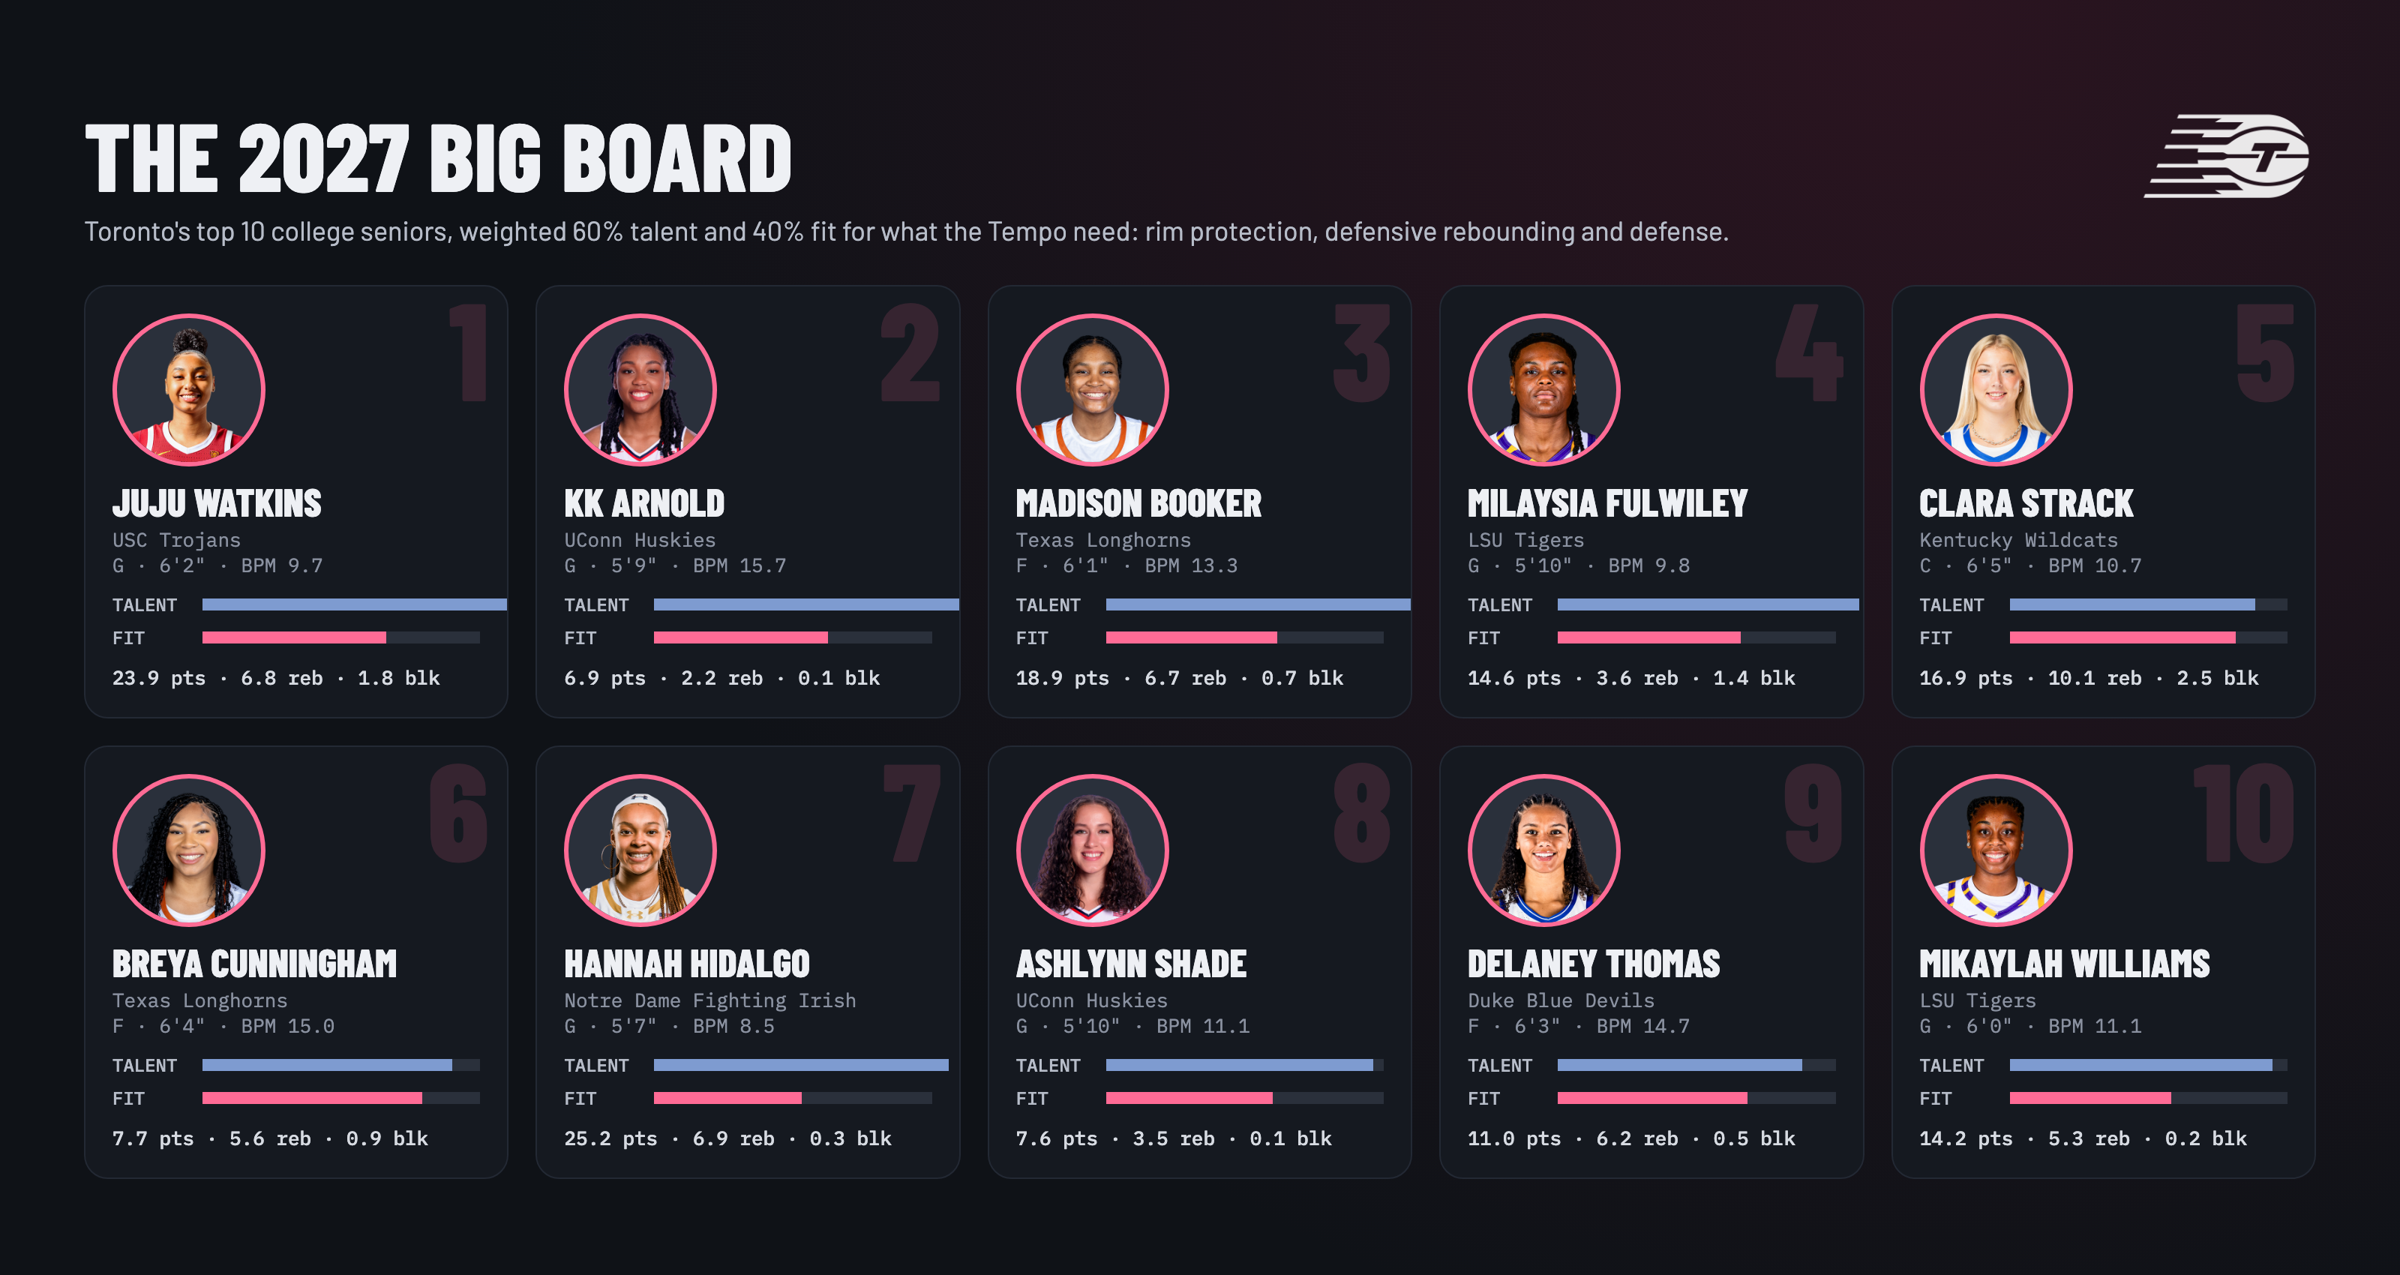
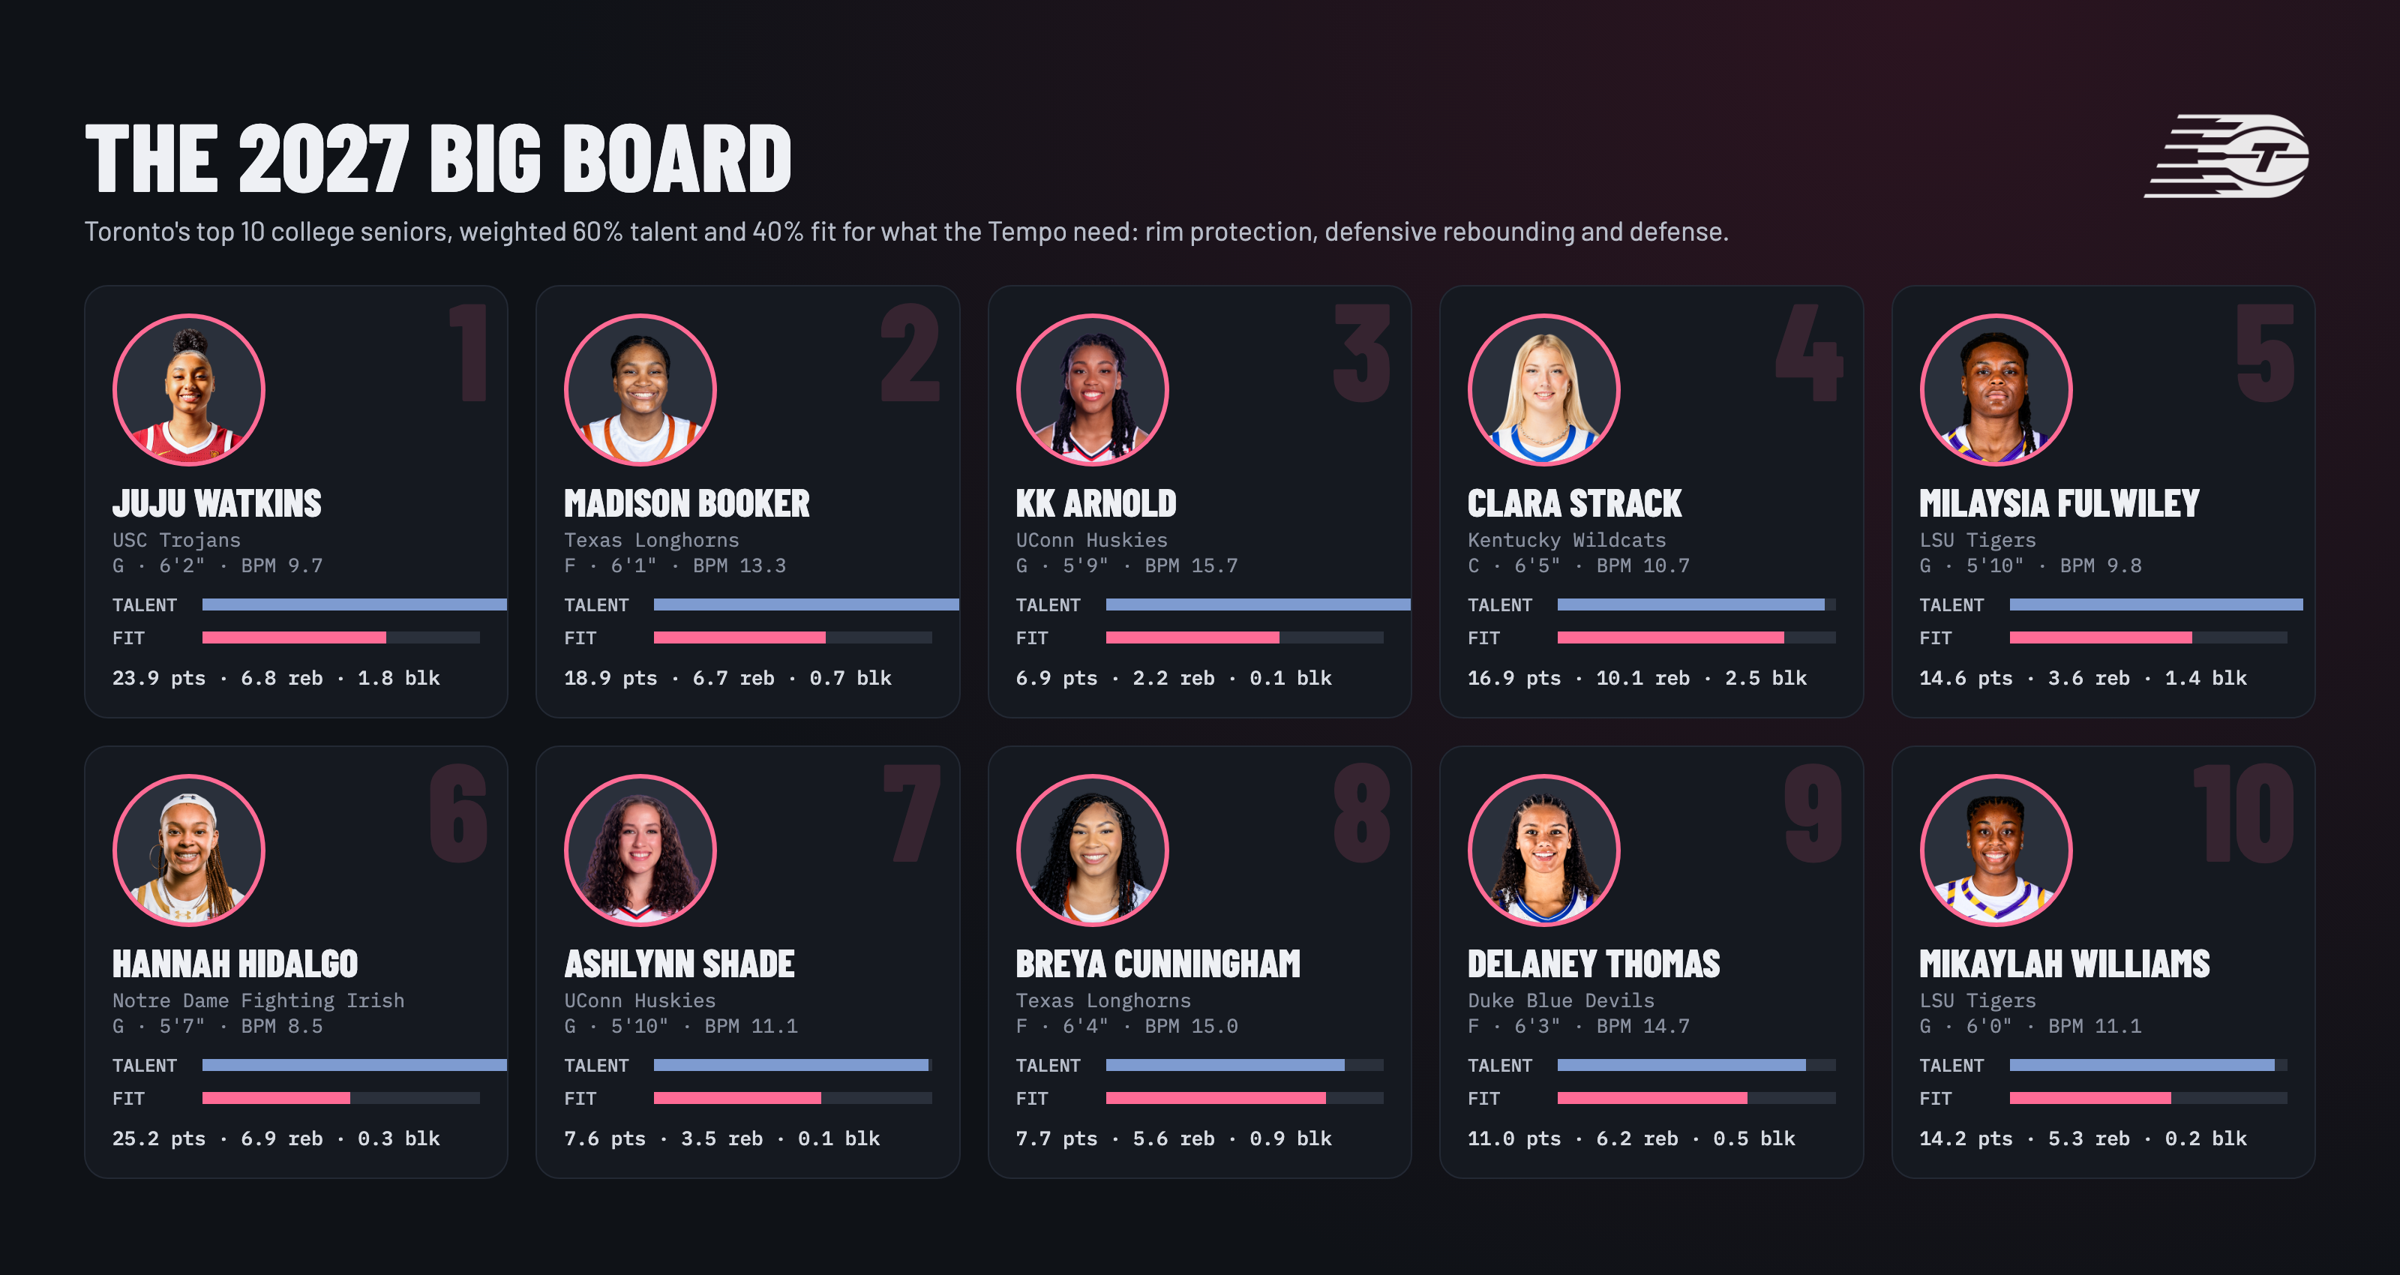
README: big board refresh and Draft Lab notes

diff --git a/README.md b/README.md
@@ -75,7 +75,7 @@ Each card's mini shot chart comes from that player's own 2026 shots: hex size sh
 
 <img src="readme_art/out/big-board.png" alt="The 2027 big board: Toronto's top 10 college seniors" width="100%">
 
-The [**Draft Lab**](https://jordanngo205.github.io/toronto-tempo-analytics/draft-lab/) starts with what broke: Toronto was last in defensive rating, opponent eFG%, opponent shots at the rim and blocks. Then it follows every WNBA draftee from 2018 to 2025 back to college to see what actually translates. After you account for draft slot, box plus-minus, defensive BPM and steals still predicted WNBA minutes. College scoring didn't. Every 2026-27 senior is scored on **talent** (a ridge model plus sportsdataverse's draft projection) and **fit** (blocks, defensive rebounding, defensive BPM, size). A slider lets you trade one for the other.
+The [**Draft Lab**](https://jordanngo205.github.io/toronto-tempo-analytics/draft-lab/) starts with what broke: Toronto was last in defensive rating, opponent eFG%, opponent shots at the rim and blocks. Then it follows every WNBA draftee from 2018 to 2025 back to college to see what actually translates. After you account for draft slot, box plus-minus, defensive BPM and steals still predicted WNBA minutes. College scoring didn't. Every 2026-27 senior is scored on **talent** (a ridge model plus sportsdataverse's draft projection) and **fit** (blocks, defensive rebounding, defensive BPM, size). A slider lets you trade one for the other, a toggle switches to the consensus order, each prospect gets an archetype ("3 & D", "Rim protector"...), and a list flags the players the model likes more than consensus: the late-round targets.
 
 ---
 
